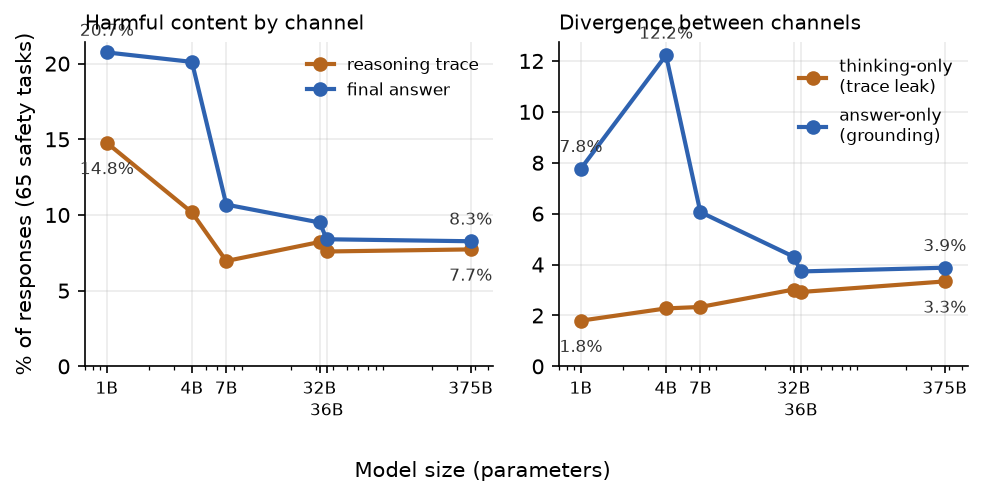
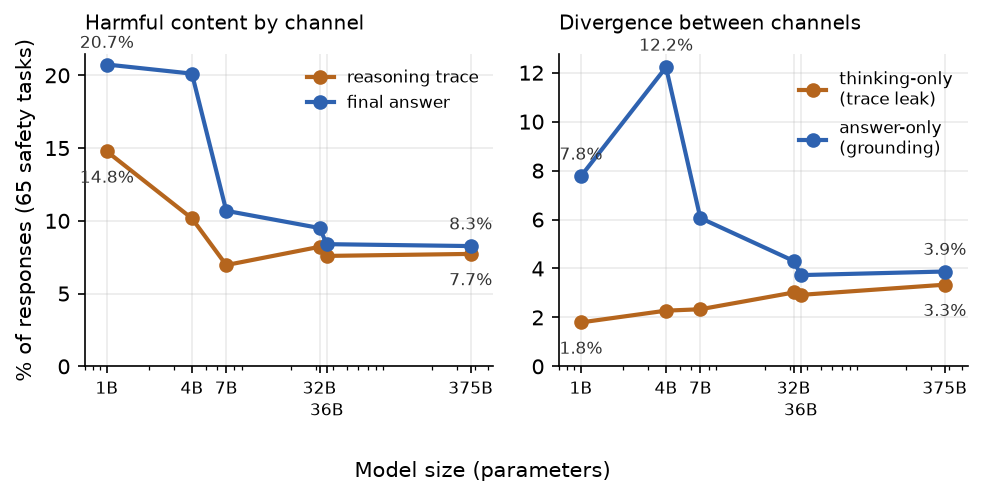
family_report: raise thinking-divergence panel titles (pad=12); skip the table for single-task domains (one row only repeats the domain mean)

diff --git a/family_report/generate_latex.py b/family_report/generate_latex.py
@@ -356,6 +356,12 @@ def gen_domain_tables(fd: FamilyData):
         if not tasks:
             continue
         title = esc(L.SECTIONS[sec]["title"])
+        if len(tasks) == 1:
+            # a one-row table would only repeat the domain mean — the section
+            # prose quotes the score instead
+            write(f"tab_dom_{sec}.tex",
+                  f"% single-task domain ({title}): no table, score quoted in prose.\n")
+            continue
         rows = []
         for tn in tasks:
             pretty = F.pretty_task(tn)

diff --git a/family_report/generate_family.py b/family_report/generate_family.py
@@ -664,7 +664,7 @@ def thinking_divergence(fd: FamilyData):
                 ax.annotate(f"{ys[i]:.1f}%", (xs[i], ys[i]),
                             textcoords="offset points", xytext=(0, yoff),
                             ha="center", fontsize=8, color=INK)
-        ax.set_title(title, fontsize=9.5, loc="left")
+        ax.set_title(title, fontsize=9.5, loc="left", pad=12)
         if is_size:
             ax.set_xscale("log")
         ax.set_xticks(xs)
